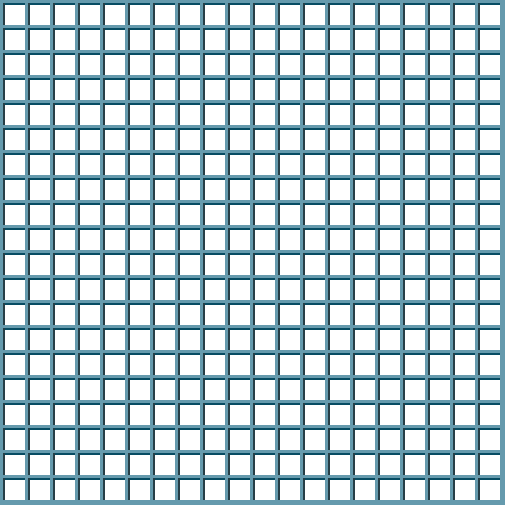
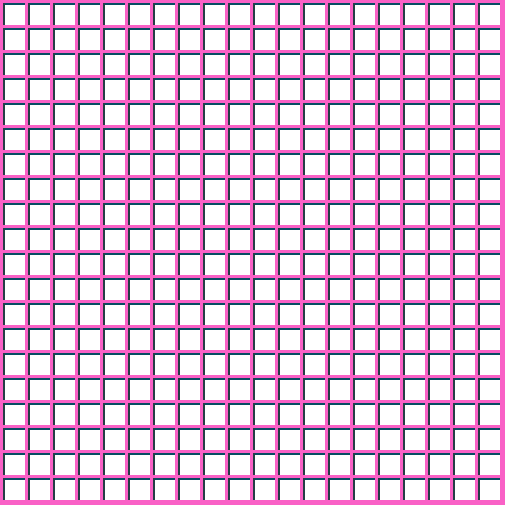
changed wall color

Changed region(s): [[0.0, 0.0, 1.0, 1.0]]

diff --git a/mazeGrid.py b/mazeGrid.py
@@ -14,11 +14,11 @@ def remainingBorders(pic, size):
     
     for w in range(width):
         #draws bottom border
-        drawLines(pic, w, width - size, size, [101, 154, 173])
+        drawLines(pic, w, width - size, size, [0xf9, 0x61, 0xc6])
         
     for h in range(height):
         #draws right border 
-        drawOtherLines(pic, height - size, h, size, [101, 154, 173])
+        drawOtherLines(pic, height - size, h, size, [0xf9, 0x61, 0xc6])
 
 #draws a vertical line of given height, cols, from given x,y coordinate
 #in a given colour
@@ -51,13 +51,13 @@ def drawGrid():
     #drawing horizontal lines at correct intervals
     for w in range(3, height, 20):
         for h in range(width):
-            drawOtherLines(base, w - 3, h, 3, [101, 154, 173])
+            drawOtherLines(base, w - 3, h, 3, [0xf9, 0x61, 0xc6])
             drawOtherLines(base, w, h, 2, [38, 62, 70])
             
     #drawing vertical lines at correct intervals
     for h in range(3, width, 20):
         for w in range(height):
-            drawLines(base, w, h - 3, 3, [101, 154, 173])
+            drawLines(base, w, h - 3, 3, [0xf9, 0x61, 0xc6])
     
     remainingBorders(base, 5)
     
@@ -79,13 +79,13 @@ def drawGrid2():
     #drawing vertical lines and shadows at correct intervals
     for w in range(3, width, 25):
         for h in range(height):
-            drawOtherLines(base, w - 3, h, 3, [101, 154, 173])
+            drawOtherLines(base, w - 3, h, 3, [0xf9, 0x61, 0xc6])
             drawOtherLines(base, w, h, 2, [38, 62, 70])
     
     #drawing horizontal lines at correct intervals 
     for h in range(3, height, 25):
         for w in range(width):
-            drawLines(base, w, h - 3, 3, [101, 154, 173])
+            drawLines(base, w, h - 3, 3, [0xf9, 0x61, 0xc6])
     
     remainingBorders(base, 5)
     ImageWriter.savePicture(base, "main maze/grid made.png")

diff --git a/ImageBounds.py b/ImageBounds.py
@@ -47,7 +47,7 @@ def oneHorizontalMargin(pic, start, end, step, h):
         colour = ImageWriter.getColor(pic, w, h)
         
         #full gap found when pixel is no longer white, and can stop check
-        if isCloseColor(colour, [101, 154, 173], 50) == True:
+        if isCloseColor(colour, [0xf9, 0x61, 0xc6], 50) == True:
             margin = w
             break
     
@@ -91,7 +91,7 @@ def oneVerticalMargin(pic, start, end, step, w):
         colour = ImageWriter.getColor(pic, w, h)
         
         #full gap found when pixel is no longer white, and can stop check
-        if isCloseColor(colour, [101, 154, 173], 50) == True:
+        if isCloseColor(colour, [0xf9, 0x61, 0xc6], 50) == True:
             margin = h
             break
     
@@ -164,7 +164,7 @@ def findHorizontalWhiteBounds(pic, x0, x1, h):
                 
         #finding location of next coloured pixel which indicates end of 
         #white segment
-        elif (isCloseColor(colour, [101, 154, 173], 50) == True and 
+        elif (isCloseColor(colour, [0xf9, 0x61, 0xc6], 50) == True and 
               firstWhite == True):
             bound2 = w
             break
@@ -209,7 +209,7 @@ def findVerticalWhiteBounds(pic, y0, y1, w):
                 
         #finding location of next coloured pixel which indicates end of 
         #white segment
-        elif (isCloseColor(colour, [101, 154, 173], 50) == True and 
+        elif (isCloseColor(colour, [0xf9, 0x61, 0xc6], 50) == True and 
               firstWhite == True):
             bound2 = h
             break

diff --git a/classes.py b/classes.py
@@ -29,7 +29,7 @@ def touchingWall(rect, app):
             currentColour = app.screen.get_at((w, h))
             
             #only detecting collisions with actual wall colour, not shadows
-            if isCloseColor(currentColour, [101, 154, 173], 30) == True:
+            if isCloseColor(currentColour, [0xf9, 0x61, 0xc6], 30) == True:
                 return True
             
     return False
